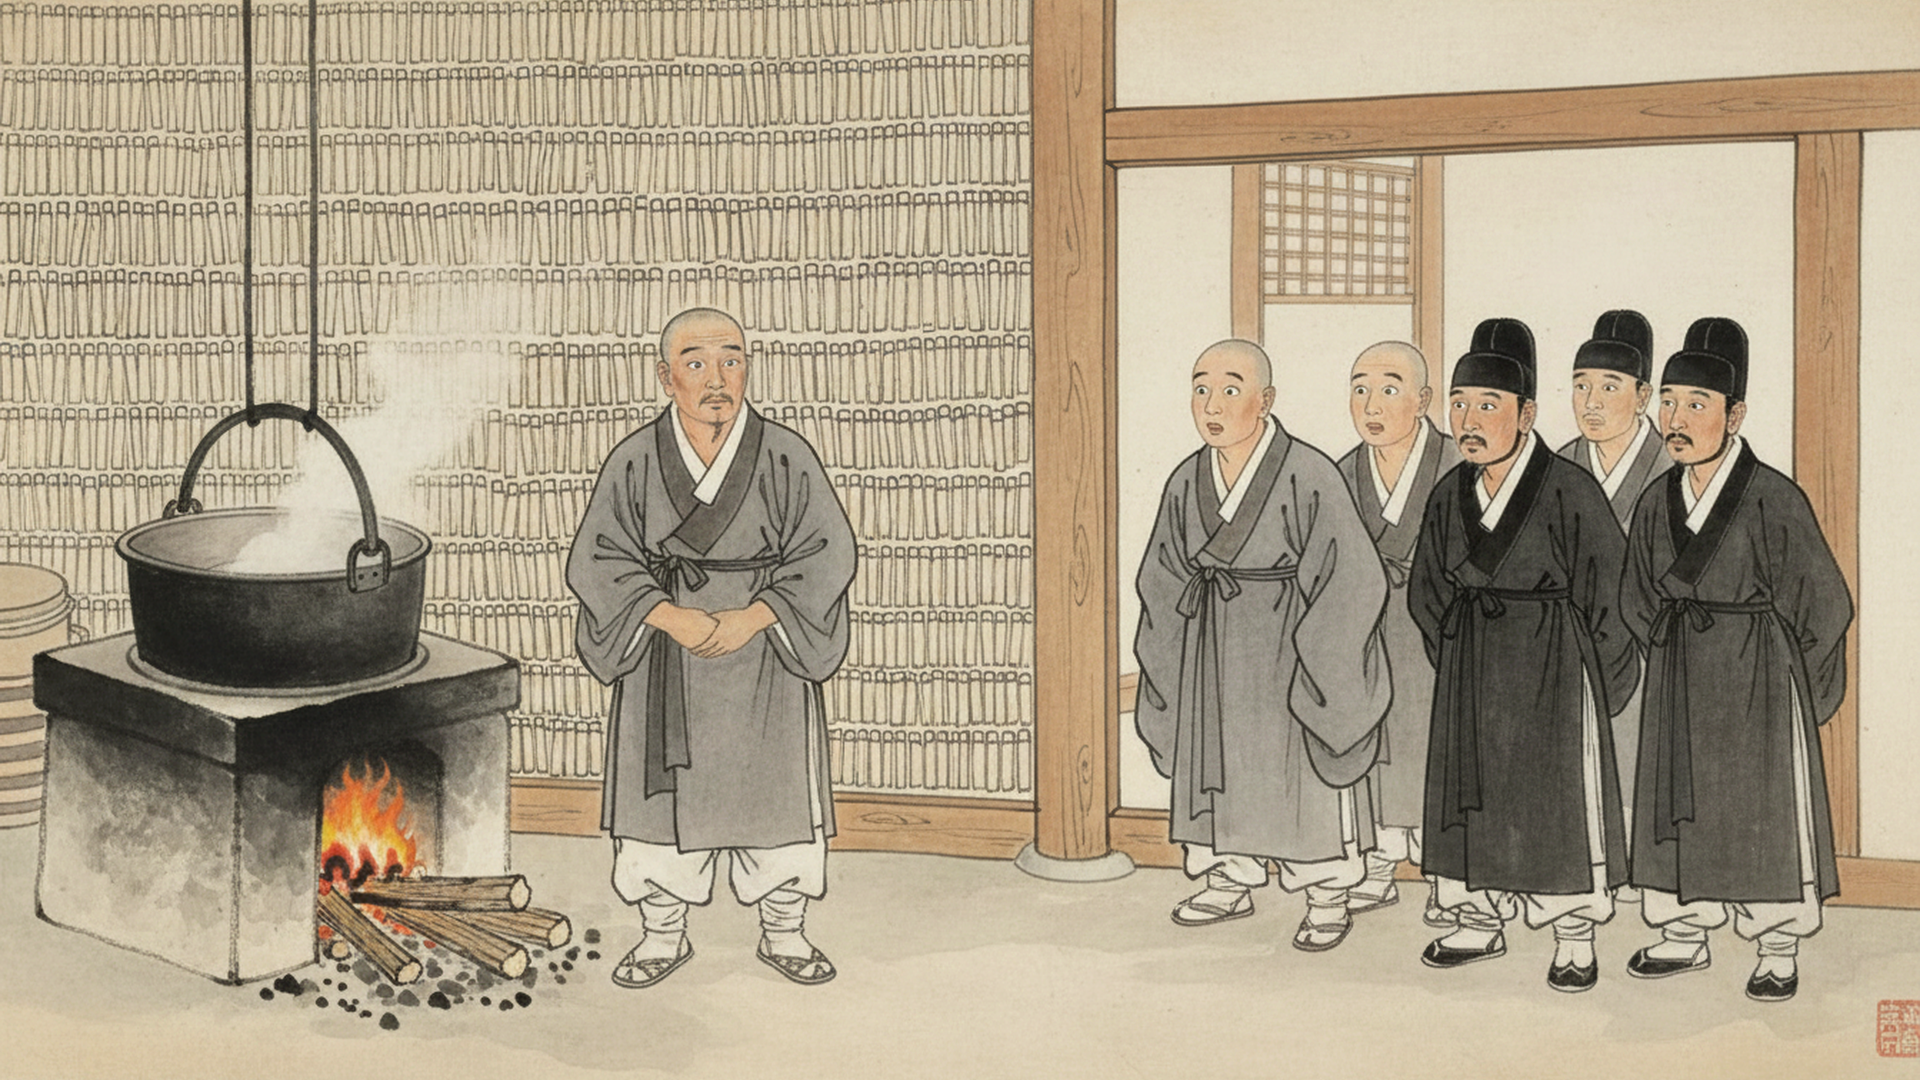
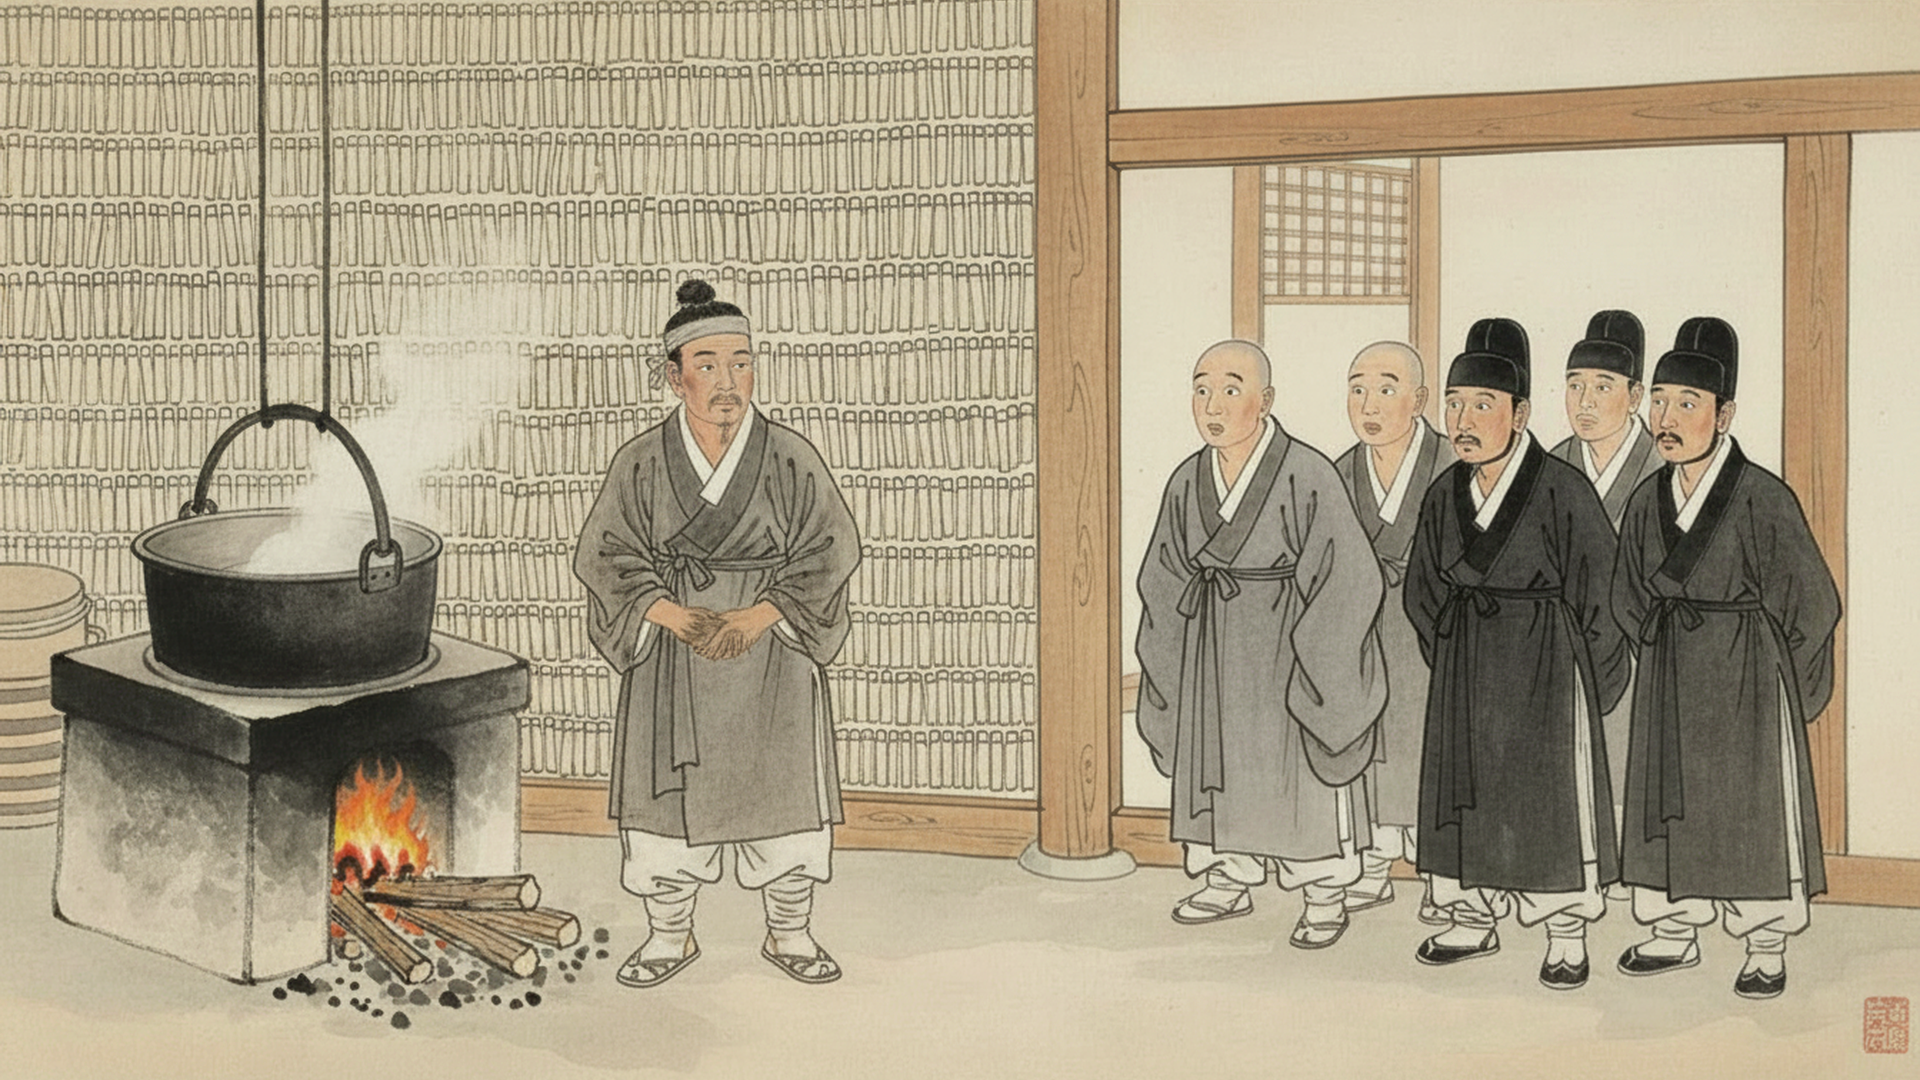
허허서방: 3·4·5편 숏츠 업로드 문구 9개, 6편 S27 막쇠 수정본 반영
S27은 프롬프트를 새로 쓰자 구도가 망가져, 처음 그림을 참고로 넣고 '이 그림 그대로 두고 아궁이 옆 사람만 상투 튼 일꾼으로' 지시해 해결.

diff --git a/docs/전래동화/숏츠_업로드문구_3-5편.md b/docs/전래동화/숏츠_업로드문구_3-5편.md
@@ -1,0 +1,168 @@
+# 허허서방 숏츠 업로드 문구 (3·4·5편)
+
+공통 설정
+- 공개: **예약** / 시간 **19:00** (롱폼 20:00과 겹치지 않게)
+- 시청자층: "아니요, 아동용이 아닙니다" / 유료 프로모션: 아니요 / AI 사용: 아니요
+- 재생목록: 허허서방 옛날이야기
+- 설명 끝에 그 편 롱폼 링크를 붙이면 전환이 올라갑니다. 링크는 공개된 뒤 주소를 복사해 쓰세요.
+
+---
+
+# 5편 「눈 어두운 산파 할머니」 (롱폼 9/29 공개)
+
+## 10/4 (일) — 한마디 `05_눈어두운산파할머니/숏츠3_한마디.mp4`
+**제목**
+```
+주름지고 거칠어졌다고 그 손이 해 온 일까지 늙은 건 아니지요 | 허허서방 #Shorts
+```
+**설명**
+```
+장터 이야기꾼 허허서방의 한마디올시다.
+
+마흔 해 동안 마을 아이 삼백 명을 받아 낸 삼례 할멈 이야기, 전체 편은 채널에서 보실 수 있습니다.
+
+#야담 #옛날이야기 #민담 #잠잘때듣는이야기 #허허서방
+```
+
+## 10/5 (월) — 훅 `05_눈어두운산파할머니/숏츠1_훅.mp4`
+**제목**
+```
+눈이 어둡다고 쫓겨난 산파 할머니 | 야담 #Shorts
+```
+**설명**
+```
+사흘을 앓던 산모가 마침내 숨을 골랐습니다.
+그 방에서 아이를 받아 든 건, 눈이 어두워 바늘귀도 못 꿰는 늙은 산파였지요.
+
+전체 이야기는 채널에서 보실 수 있습니다.
+
+#야담 #옛날이야기 #민담 #잠잘때듣는이야기 #허허서방
+```
+
+## 10/6 (화) — 반전 `05_눈어두운산파할머니/숏츠2_반전.mp4`
+**제목**
+```
+사흘을 못 낳은 아이를 눈 어두운 손이 받아냈다 | 야담 #Shorts
+```
+**설명**
+```
+"내 눈은 어두워도, 내 손은 아직 밝소."
+쫓겨난 산파를 빗속에 불러온 그날 밤, 젊은 의원이 무릎을 꿇었습니다.
+
+전체 이야기는 채널에서 보실 수 있습니다.
+
+#야담 #옛날이야기 #민담 #잠잘때듣는이야기 #허허서방
+```
+
+---
+
+# 3편 「까치호랑이 그리던 떠돌이 환쟁이」 (롱폼 9/22 공개됨)
+
+## 9/28 (일) — 한마디 `03_까치호랑이그리던떠돌이환쟁이/숏츠3_한마디.mp4`
+**제목**
+```
+비단옷 입은 붓보다 누더기 입은 붓이 더 곧을 때도 있지요 | 허허서방 #Shorts
+```
+**설명**
+```
+장터 이야기꾼 허허서방의 한마디올시다.
+
+엽전 두 닢에 웃는 호랑이를 그려 팔던 떠돌이 환쟁이 복만이 이야기, 전체 편은 채널에서 보실 수 있습니다.
+
+#야담 #옛날이야기 #민담 #민화 #잠잘때듣는이야기 #허허서방
+```
+
+## 9/29 (월) — 훅 `03_까치호랑이그리던떠돌이환쟁이/숏츠1_훅.mp4`
+**제목**
+```
+장터 환쟁이 그림 뒤에 숨은 얼굴 하나 | 야담 #Shorts
+```
+**설명**
+```
+해 질 녘, 대감댁 마당에 사람들이 숨을 죽이고 모였습니다.
+병풍을 지는 해에 비추자, 아무도 모르던 것이 떠올랐지요.
+
+전체 이야기는 채널에서 보실 수 있습니다.
+
+#야담 #옛날이야기 #민담 #민화 #잠잘때듣는이야기 #허허서방
+```
+
+## 9/30 (화) — 반전 `03_까치호랑이그리던떠돌이환쟁이/숏츠2_반전.mp4`
+**제목**
+```
+훔친 그림에 도장을 찍은 화원이 붓을 내던졌다 | 야담 #Shorts
+```
+**설명**
+```
+도화서 화원은 떠돌이 환쟁이 그림을 벽에 묻은 얼룩이라 비웃었지요.
+그러고는 몰래 제 이름을 붙여 대감댁 병풍에 올렸습니다.
+
+전체 이야기는 채널에서 보실 수 있습니다.
+
+#야담 #옛날이야기 #민담 #민화 #잠잘때듣는이야기 #허허서방
+```
+
+---
+
+# 4편 「찌그러진 달항아리를 빚은 도공」 (롱폼 9/25 공개)
+
+## 10/1 (수) — 한마디 `04_찌그러진달항아리를빚은도공/숏츠3_한마디.mp4`
+**제목**
+```
+비뚤어진 게 흠이 아니라 많이 품느라 생긴 자국이었지요 | 허허서방 #Shorts
+```
+**설명**
+```
+장터 이야기꾼 허허서방의 한마디올시다.
+
+사발 두 개를 이어 붙여 큰 항아리를 빚은 도공 달쇠 이야기, 전체 편은 채널에서 보실 수 있습니다.
+
+#야담 #옛날이야기 #민담 #달항아리 #잠잘때듣는이야기 #허허서방
+```
+
+## 10/2 (목) — 훅 `04_찌그러진달항아리를빚은도공/숏츠1_훅.mp4`
+**제목**
+```
+찌그러졌다고 깨 버리라던 항아리 하나 | 야담 #Shorts
+```
+**설명**
+```
+보름달이 뜬 밤, 나라 가마터에 흰 항아리 백 개가 줄지어 섰습니다.
+그중 달빛을 머금고 빛난 건 딱 하나, 모두가 깨 버리라던 그 항아리였지요.
+
+전체 이야기는 채널에서 보실 수 있습니다.
+
+#야담 #옛날이야기 #민담 #달항아리 #잠잘때듣는이야기 #허허서방
+```
+
+## 10/3 (금) — 반전 `04_찌그러진달항아리를빚은도공/숏츠2_반전.mp4`
+**제목**
+```
+항아리 속 이음새 하나가 감독관을 무릎 꿇렸다 | 야담 #Shorts
+```
+**설명**
+```
+"통째로 올렸사옵니다." 감독관은 그렇게 아뢰었지요.
+그런데 대감이 등불을 들어 항아리 속을 비추자, 이음새가 드러났습니다.
+
+전체 이야기는 채널에서 보실 수 있습니다.
+
+#야담 #옛날이야기 #민담 #달항아리 #잠잘때듣는이야기 #허허서방
+```
+
+---
+
+## 예약 한눈에
+| 날짜 | 올릴 것 |
+|---|---|
+| 9/28 (일) | 3편 한마디 |
+| 9/29 (월) | 3편 훅 |
+| 9/30 (화) | 3편 반전 |
+| 10/1 (수) | 4편 한마디 |
+| 10/2 (목) | 4편 훅 |
+| 10/3 (금) | 4편 반전 |
+| 10/4 (일) | 5편 한마디 |
+| 10/5 (월) | 5편 훅 |
+| 10/6 (화) | 5편 반전 |
+
+- 6편 숏츠는 6편 공개(10/2) 뒤에 만들면 됩니다 — `python ../도구/shorts.py plan`부터.

diff --git a/docs/전래동화/06_절에서불만때던막쇠/웹프롬프트.md b/docs/전래동화/06_절에서불만때던막쇠/웹프롬프트.md
@@ -28,10 +28,13 @@ Traditional Korean minhwa ink-and-wash painting in the exact art style of the re
 Traditional Korean minhwa ink-and-wash painting in the exact art style of the reference image. No people in the picture: a stack of small plain wooden tally sticks — flat hand-sized pieces of wood with simple scratched lines, not boxes, not crates — piled in the corner of a dim temple kitchen behind a stone furnace, warm firelight. Nothing written on them. No text, no seals.
 ```
 
-## S27 — 나무토막으로 가득 찬 부엌 뒷벽 (반전 장면)
-참고: S06, S17
+## S27 — 나무토막으로 가득 찬 부엌 뒷벽 (반전 장면) ※ 사람만 고치기
+
+**참고 그림: `_검수/old/S27_막쇠가스님.png` 한 장만 넣으세요.** (처음 뽑았던 그 그림)
+프롬프트를 새로 쓰면 구도가 망가집니다. 처음 그림을 그대로 두고 사람만 바꾸라고 시키는 게 낫습니다.
+
 ```
-Traditional Korean minhwa ink-and-wash painting in the exact art style of the reference images. Inside a temple kitchen: Buddhist monks with shaven heads in gray robes and two officials in dark robes crowding in the doorway, staring in shock at a whole back wall stacked from floor to ceiling with thousands of small plain wooden tally sticks. A sturdy middle-aged worker in soot-stained clothes stands quietly beside the stone furnace. Nothing written anywhere. No text, no seals.
+Keep this picture exactly as it is — same composition, same wall of wooden tally sticks, same monks and officials in the doorway, same furnace and pot, same minhwa ink-and-wash style. Change only the man standing beside the furnace: he is not a monk. Give him black hair tied in a small topknot with a gray cloth headband, soot smudges on his face, and coarse gray hemp work clothes. Everything else stays identical. No text, no seals.
 ```
 
 ## S28 — 금이 그어진 나무토막 한 줌
